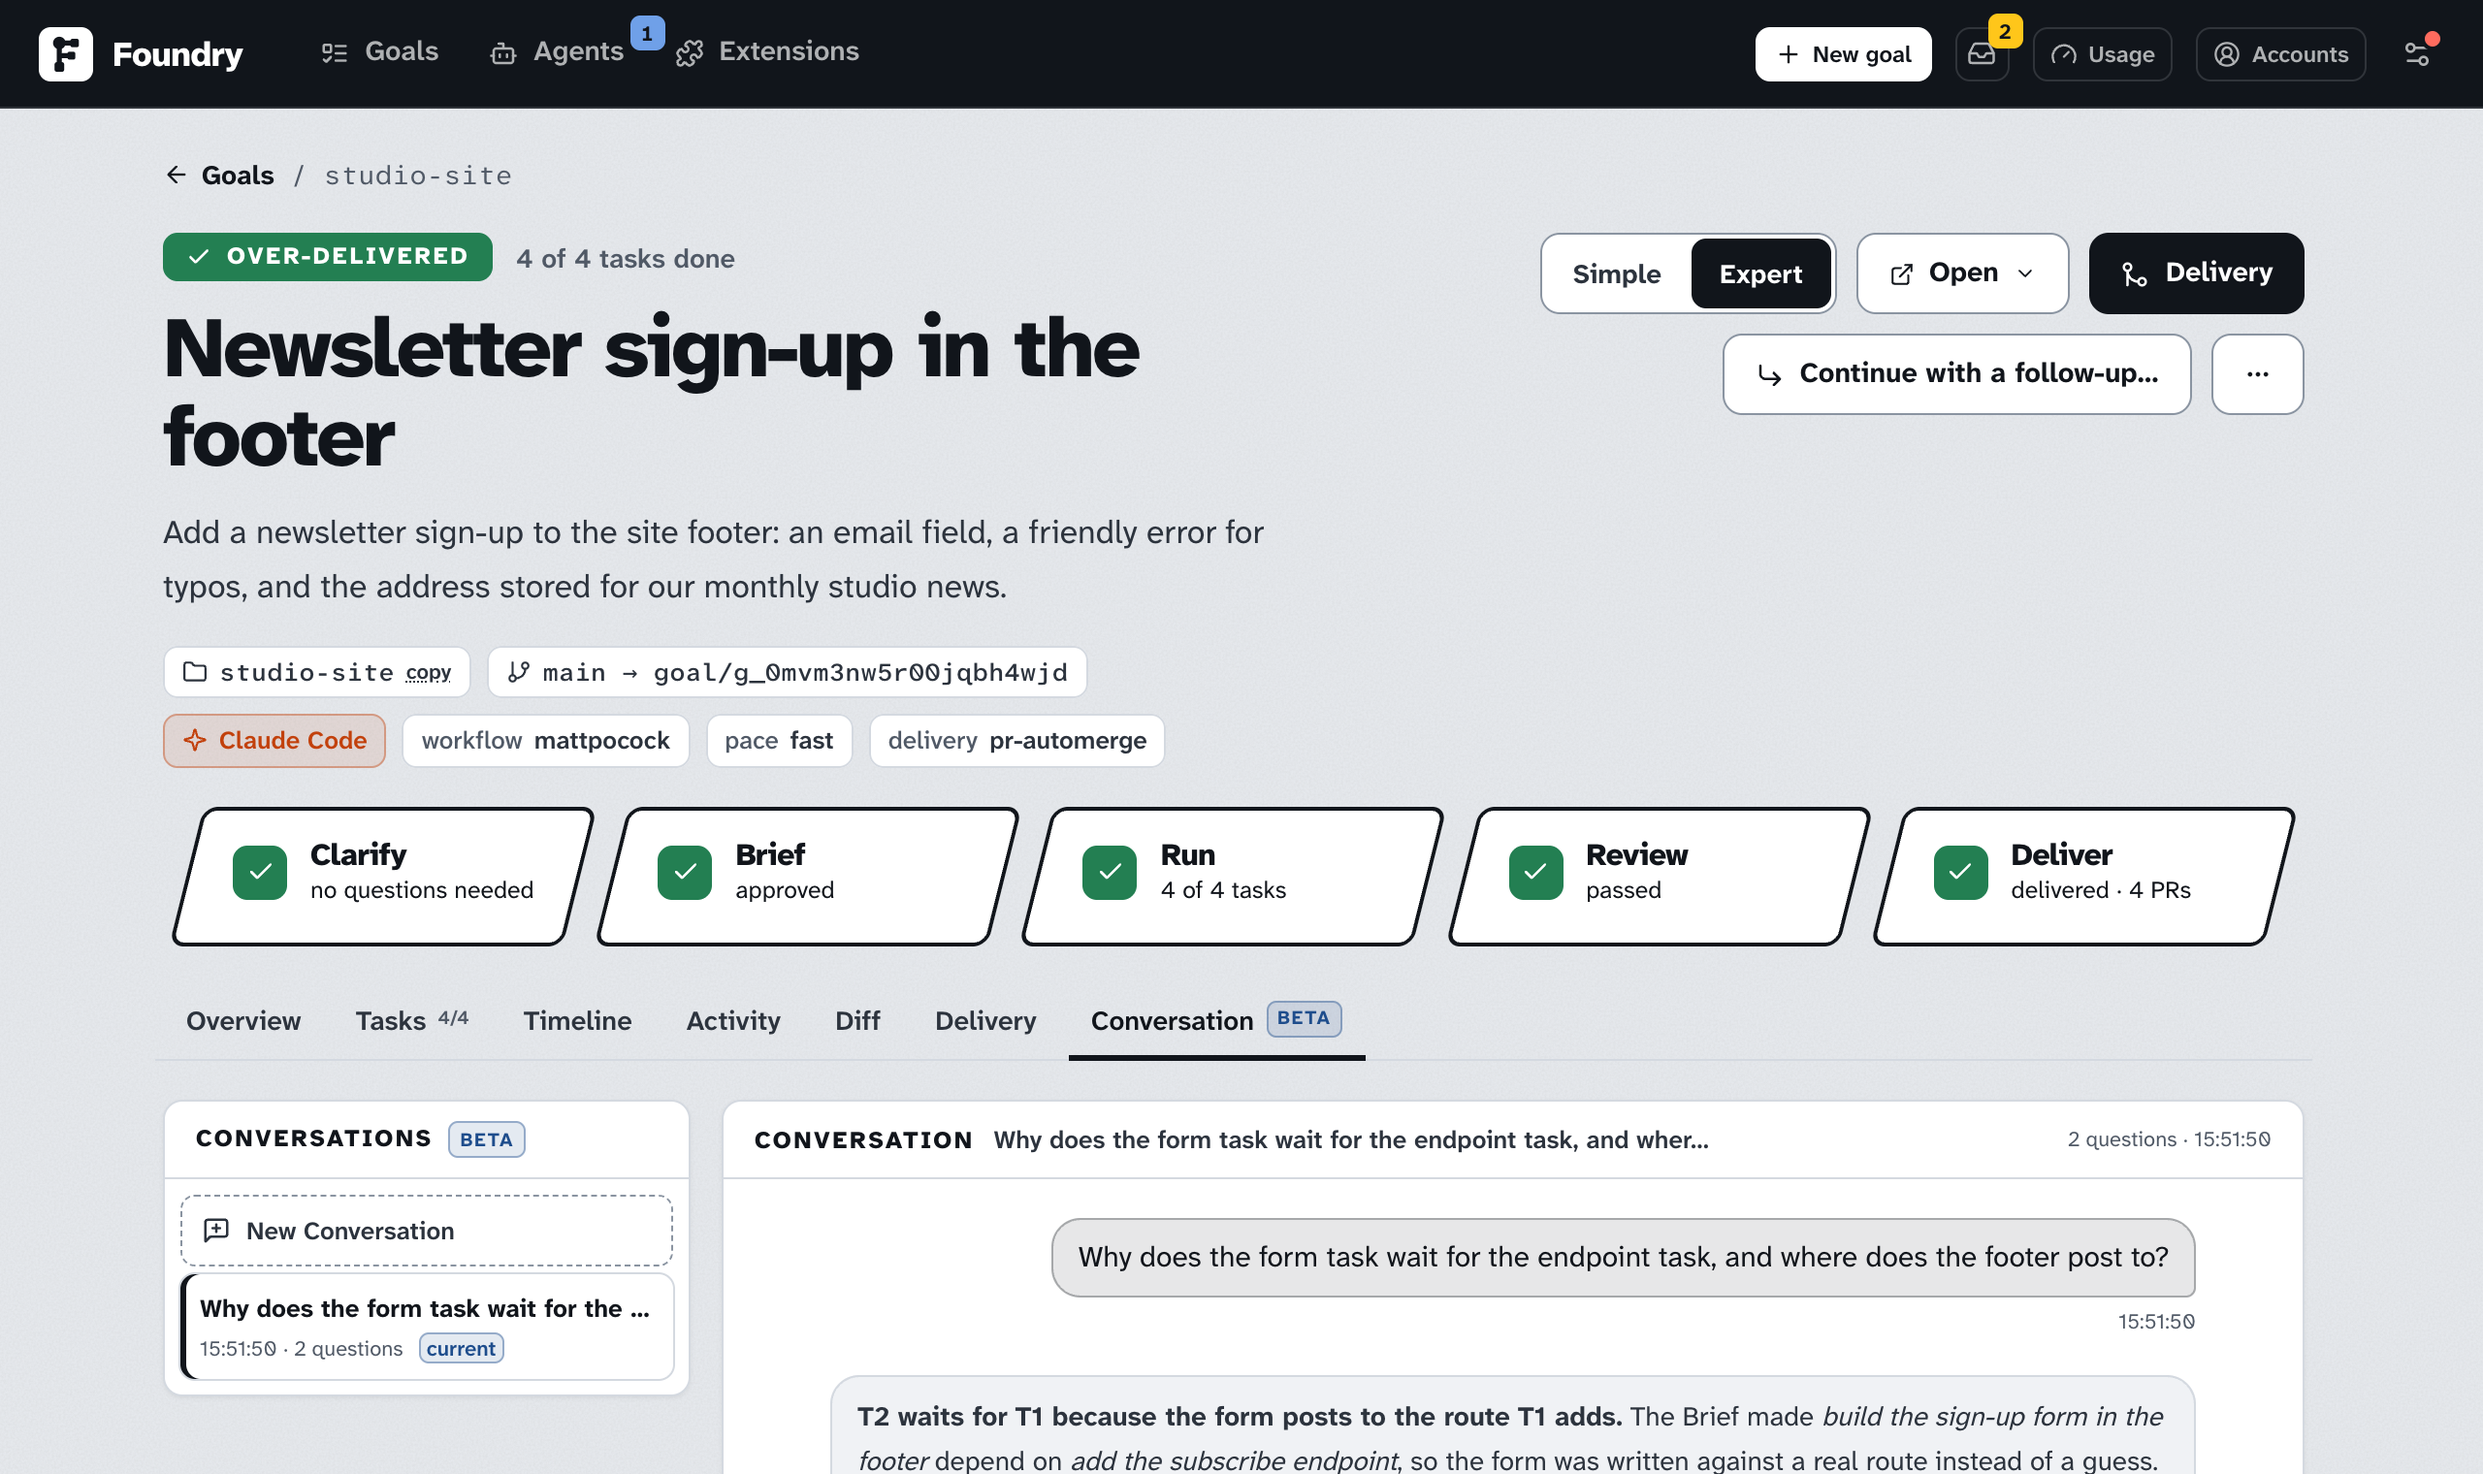
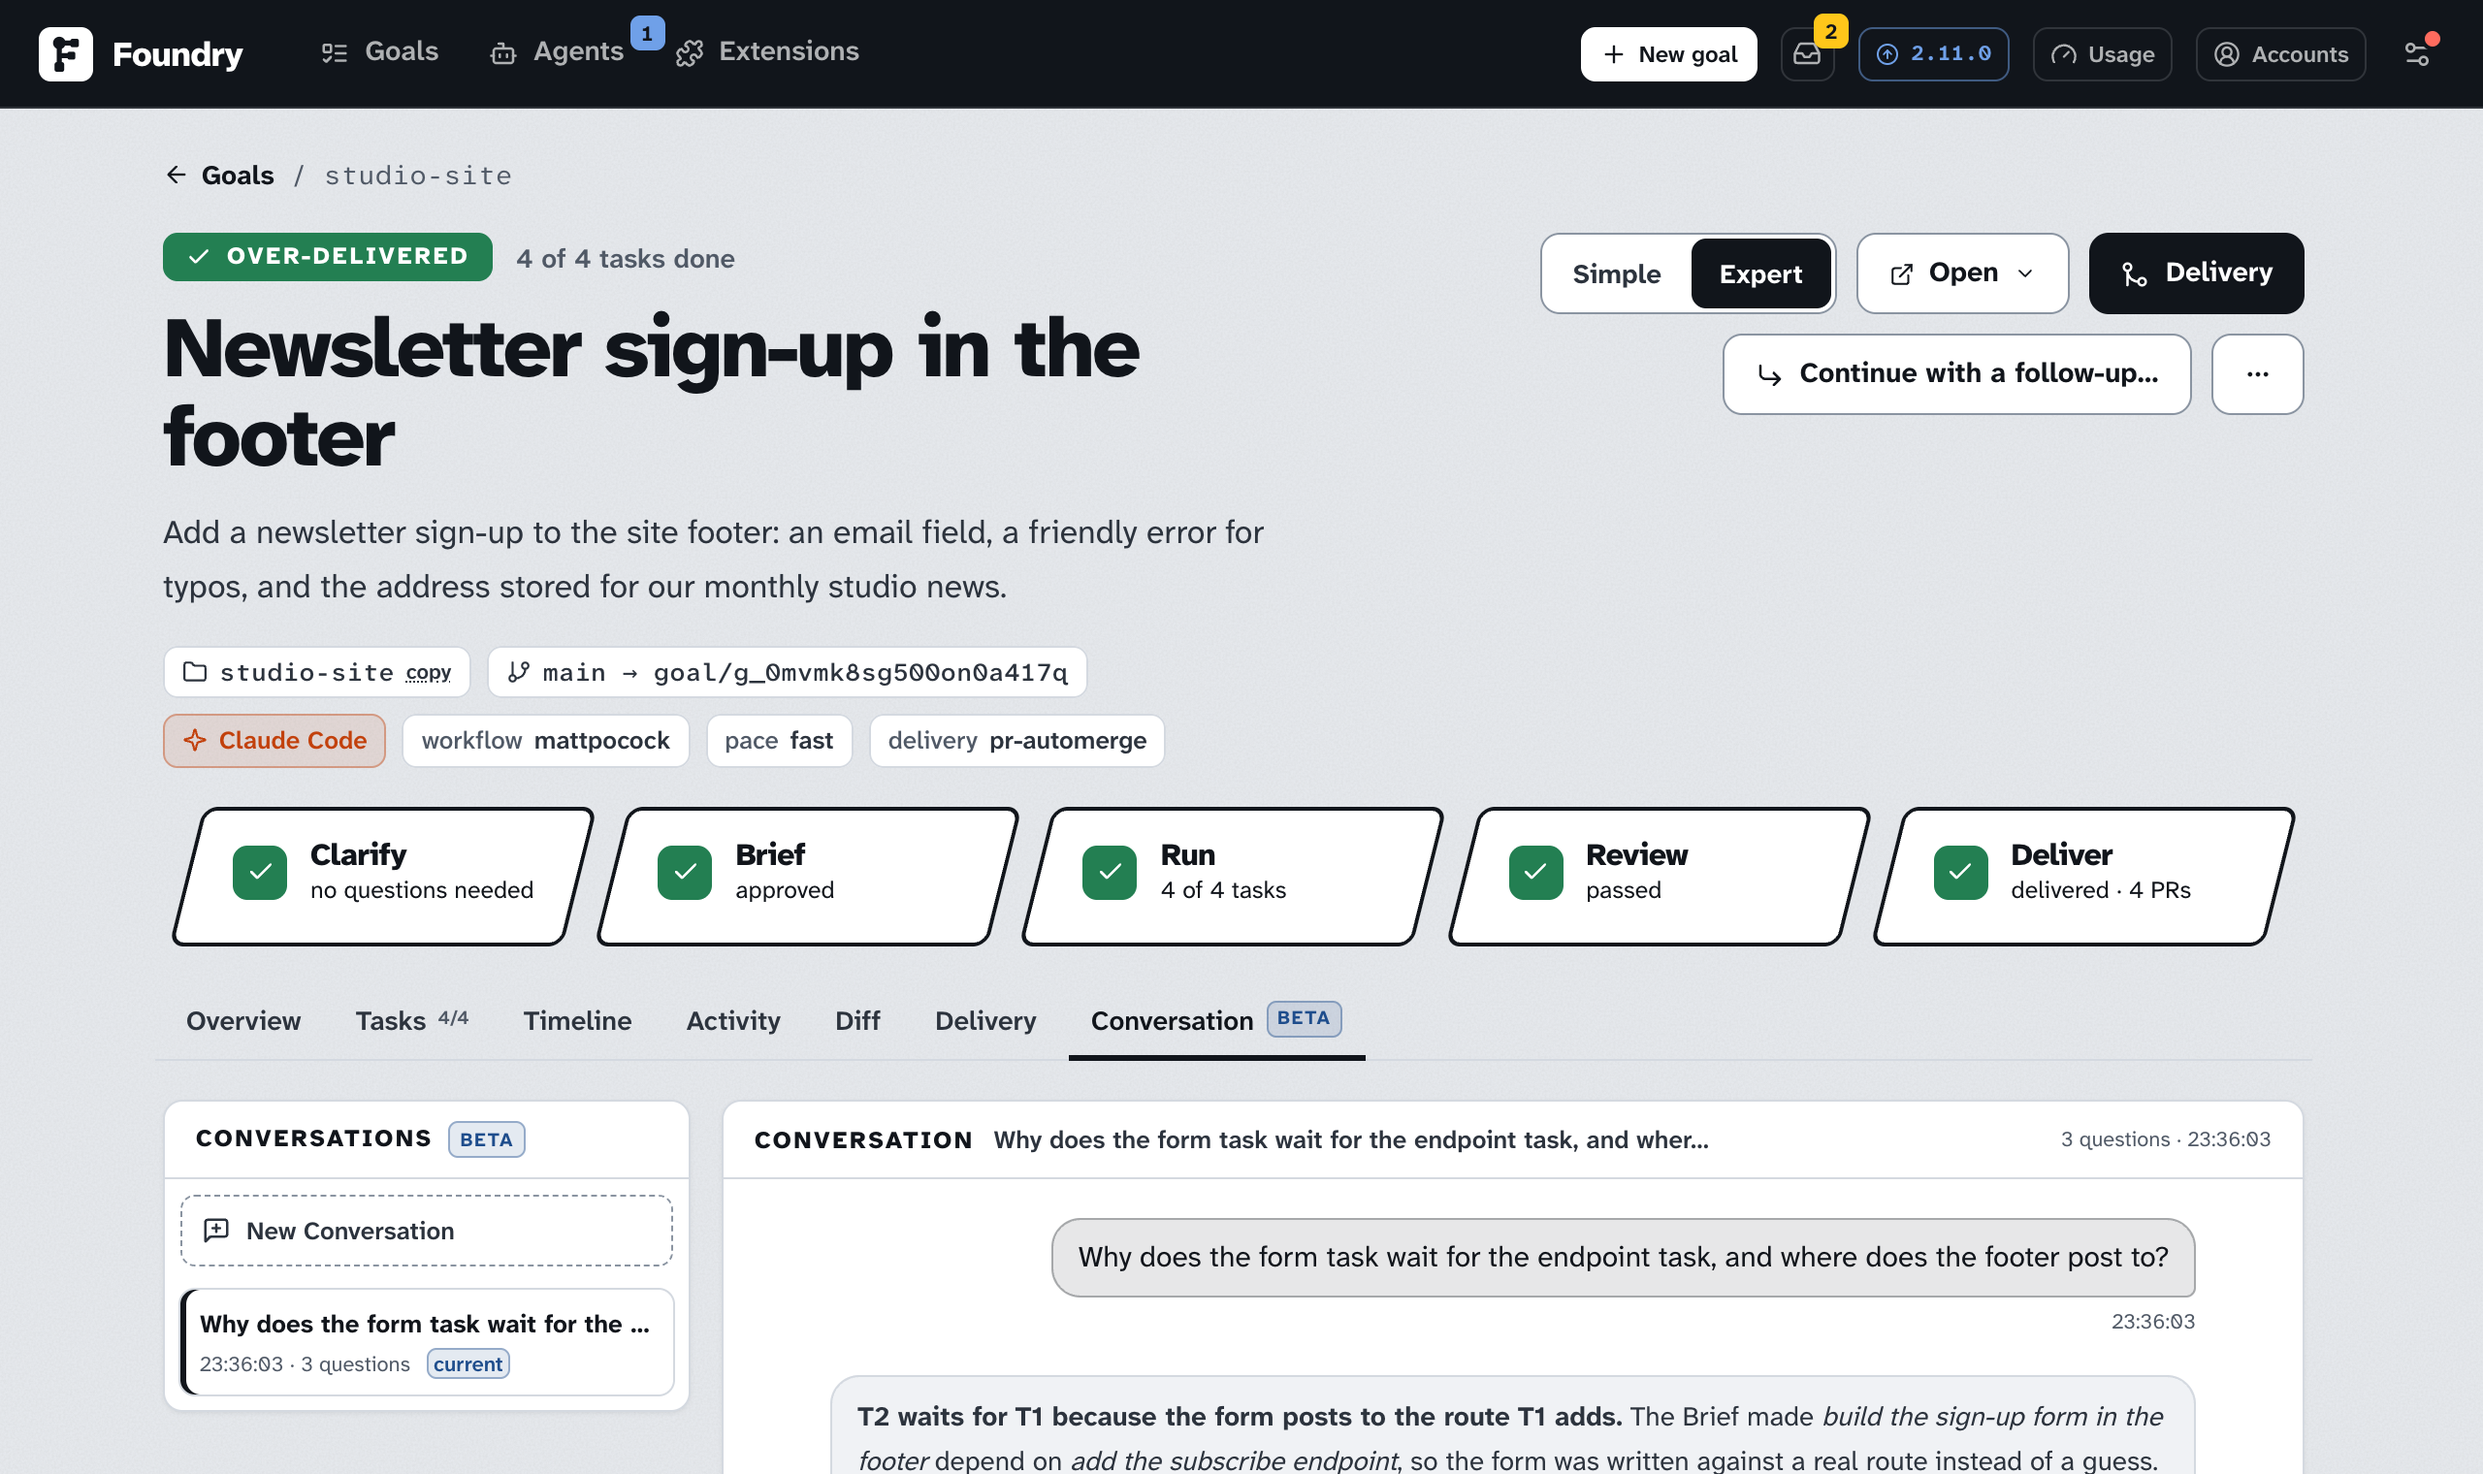
docs(guide): the demo's Conversation proposes a follow-up
The seeded Conversation gains a third exchange whose answer proposes a Follow-up, so the pictures carry a proposal card.

Changed region(s): [[0.0625, 0.8658, 0.2812, 0.9586], [0.625, 0.0, 0.8125, 0.0618], [0.3438, 0.4329, 0.4062, 0.4638]]

diff --git a/scripts/demo.ts b/scripts/demo.ts
@@ -553,11 +553,11 @@ export async function seedConversation(engine: Engine, goalId: string): Promise<
   const { newId } = await import('../packages/core/src/index.ts');
   const conversationId = newId('conversation');
   const append = (type: string, payload: Record<string, unknown>) => engine.store.append({ type, goalId, payload } as never);
-  const turn = (question: string, answer: string, costUsd: number, durationMs: number) => {
+  const turn = (question: string, answer: string, costUsd: number, durationMs: number, proposals: unknown[] = []) => {
     const askedId = newId('message');
     append('conversation.asked', { conversationId, messageId: askedId, text: question, by: null });
     append('goal.cost_added', { costUsd, source: 'conversation' });
-    append('conversation.answered', { conversationId, messageId: newId('message'), askedId, text: answer, status: 'done', reason: null, costUsd, costAvailable: true, model: 'claude-sonnet-4-5', sessionId: 'demo-conversation', durationMs });
+    append('conversation.answered', { conversationId, messageId: newId('message'), askedId, text: answer, status: 'done', reason: null, costUsd, costAvailable: true, model: 'claude-sonnet-4-5', sessionId: 'demo-conversation', durationMs, proposals });
   };
   append('conversation.started', { conversationId, by: null });
   turn(
@@ -578,6 +578,14 @@ export async function seedConversation(engine: Engine, goalId: string): Promise<
     'No. Each of the four tasks passed on its first attempt and its review; the goal review passed as well, over-delivered, because the stretch check *lint is clean* passed too. The goal never waited for you: it raised no escalation.',
     0.12,
     18_000,
+  );
+  // a change asked for: the Explainer proposes, the person applies (ADR-0075)
+  turn(
+    'Next I want a confirmation email after sign-up. Can you set that up?',
+    'That is a goal of its own rather than a task of this one: the goal is over and delivered, and sending mail needs a provider, a key and a template. I propose a Follow-up with what it needs spelled out.',
+    0.09,
+    14_000,
+    [{ id: newId('proposal'), type: 'follow-up', title: 'Confirmation email after sign-up', summary: 'A Follow-up goal that sends a confirmation email when an address is stored, with the provider and template to decide on.', followUp: { prompt: 'After the newsletter sign-up stores an address, send a confirmation email: pick a transactional mail provider (Resend or Postmark), keep its key in the environment, add a plain-text template with the studio name, and cover the send with a test that does not call the provider.' }, applied: null }],
   );
   return conversationId;
 }
